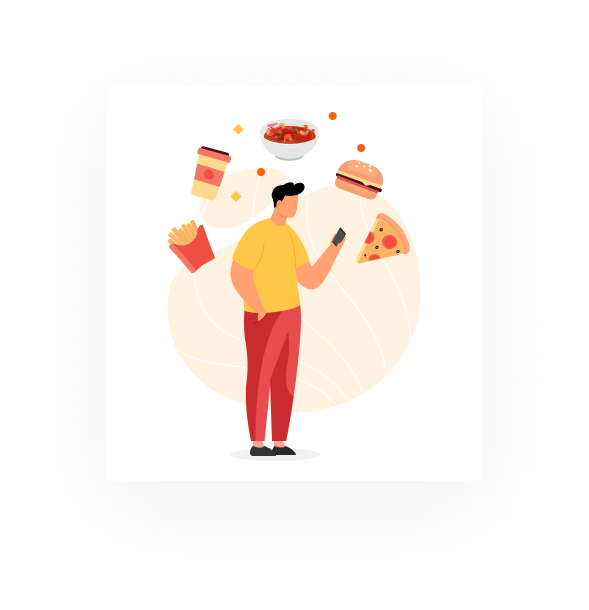
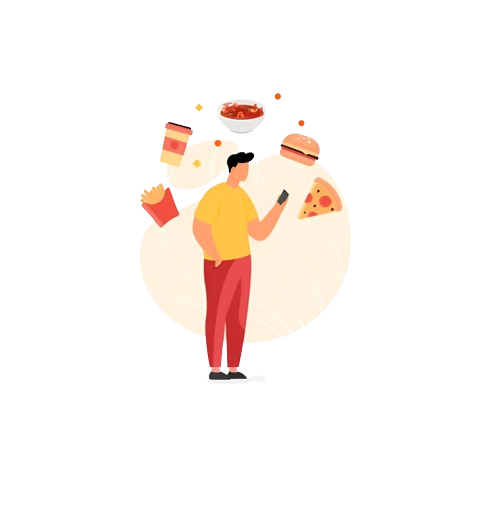
build: onboarding screens UI implementedd

diff --git a/app/onboarding/index.tsx b/app/onboarding/index.tsx
@@ -1,14 +1,25 @@
-import { StyleSheet, Text, View } from 'react-native'
+import { Text, View, SafeAreaView, Image, Pressable, Button, TouchableOpacity } from 'react-native'
 import React from 'react'
+import ButtonFill from '../components/common/button-fill'
+import OnboardingLayout from './onboarding-layout'
 
-const Onboarding = () => {
+const Onboarding = ({navigation}: any) => {
   return (
-    <View>
-      <Text>Onboarding</Text>
-    </View>
+    <OnboardingLayout>
+      <SafeAreaView className='flex flex-col items-center justify-between h-full'>
+        <Image source={require('../../assets/images/one.png')} className='h-[303px]' />
+        <View className='w-full flex flex-col items-center justify-center gap-7'>
+          <Text className='text-[1.5rem] text-dark-text font-extrabold'>All your favourites</Text>
+          <Text className='text-gray-text text-[1.125rem] text-center w-full leading-[25px]'>Get all your loved foods in one place,
+            you just place the order we do the rest</Text>
+            <ButtonFill text='next' onPress={() => navigation.navigate('SecondOnboarding')} />
+          <TouchableOpacity>
+            <Text className='text-gray-text capitalize w-full text-center'>skip</Text>
+          </TouchableOpacity>
+        </View>
+      </SafeAreaView>
+    </OnboardingLayout>
   )
 }
 
 export default Onboarding
-
-const styles = StyleSheet.create({})

diff --git a/app/onboarding/second-onboarding.tsx b/app/onboarding/second-onboarding.tsx
@@ -1,0 +1,25 @@
+import { Text, View, SafeAreaView, Image, Pressable, Button, TouchableOpacity } from 'react-native'
+import React from 'react'
+import ButtonFill from '../components/common/button-fill'
+import OnboardingLayout from './onboarding-layout'
+
+
+const SecondOnboarding = ({navigation}: any) => {
+  return (
+    <OnboardingLayout>
+    <SafeAreaView className='flex flex-col items-center justify-between h-full'>
+      <Image source={require('../../assets/images/two.png')} />
+      <View className='w-full flex flex-col items-center justify-center gap-7'>
+        <Text className='text-[1.5rem] text-dark-text font-extrabold'>Order from chosen chef</Text>
+        <Text className='text-gray-text text-[1.125rem] text-center w-full leading-[25px]'>Enjoy delicious meals from your favorite chef's fresh, fast, and just the way you like it.</Text>
+        <ButtonFill text='next'  onPress={() => navigation.navigate('ThirdOnboarding')} />
+        <TouchableOpacity>
+          <Text className='text-gray-text capitalize w-full text-center'>skip</Text>
+        </TouchableOpacity>
+      </View>
+    </SafeAreaView>
+  </OnboardingLayout>
+  )
+}
+
+export default SecondOnboarding

diff --git a/app/onboarding/onboarding-three.tsx b/app/onboarding/onboarding-three.tsx
@@ -1,0 +1,25 @@
+import { Text, View, SafeAreaView, Image, Pressable, Button, TouchableOpacity } from 'react-native'
+import React from 'react'
+import ButtonFill from '../components/common/button-fill'
+import OnboardingLayout from './onboarding-layout'
+
+
+const ThirdOnboarding = () => {
+  return (
+    <OnboardingLayout>
+    <SafeAreaView className='flex flex-col items-center justify-between h-full'>
+      <Image source={require('../../assets/images/three.png')} />
+      <View className='w-full flex flex-col items-center justify-center gap-7'>
+        <Text className='text-[1.5rem] text-dark-text font-extrabold'>Free delivery offers</Text>
+        <Text className='text-gray-text text-[1.125rem] text-center w-full leading-[25px]'>Enjoy your favorite meals delivered to your doorstep at no extra cost. Limited time only!</Text>
+        <ButtonFill text='next' />
+        <TouchableOpacity>
+          <Text className='text-gray-text capitalize w-full text-center'>skip</Text>
+        </TouchableOpacity>
+      </View>
+    </SafeAreaView>
+  </OnboardingLayout>
+  )
+}
+
+export default ThirdOnboarding

diff --git a/app/index.tsx b/app/index.tsx
@@ -6,6 +6,8 @@ import RootLayout from "./_layout";
 import { createNativeStackNavigator } from "@react-navigation/native-stack";
 import SplashScreen from "./splash-screen";
 import Onboarding from "./onboarding";
+import SecondOnboarding from "./onboarding/second-onboarding";
+import ThirdOnboarding from "./onboarding/onboarding-three";
 const Stack = createNativeStackNavigator()
 
 export default function Index() {
@@ -13,6 +15,9 @@ export default function Index() {
     <Stack.Navigator screenOptions={{ headerShown: false }}>
       <Stack.Screen name="Splash" component={SplashScreen} />
       <Stack.Screen name="Onboarding" component={Onboarding} />
+      <Stack.Screen name="SecondOnboarding" component={SecondOnboarding} />
+      <Stack.Screen name="ThirdOnboarding" component={ThirdOnboarding} />
+
     </Stack.Navigator>
   );
 }

diff --git a/app/components/common/button-fill.tsx b/app/components/common/button-fill.tsx
@@ -3,10 +3,11 @@ import React from 'react'
 
 interface ButtonFillProps {
     text: string;
+    onPress?: () => void;
 }
-const ButtonFill: React.FC<ButtonFillProps> = ({text}) => {
+const ButtonFill: React.FC<ButtonFillProps> = ({text, onPress}) => {
   return (
-    <TouchableOpacity className='bg-primary-orange rounded-[.75rem] flex px-[6.687rem] py-[1.313rem] w-[100%]'>
+    <TouchableOpacity className='bg-primary-orange rounded-[.75rem] flex px-[6.687rem] py-[1.313rem] w-[100%]'  onPress={onPress}>
       <Text className='text-white text-[1rem] font-bold capitalize w-full text-center'>{text}</Text>
     </TouchableOpacity>
   )

diff --git a/app/onboarding/onboarding-layout.tsx b/app/onboarding/onboarding-layout.tsx
@@ -1,0 +1,16 @@
+import { View, Text } from 'react-native'
+import React from 'react'
+
+interface OnboardingLayoutProps {
+  children: React.ReactNode;
+}
+
+const OnboardingLayout: React.FC<OnboardingLayoutProps> = ({ children }) => {
+  return (
+    <View className='px-4 bg-white h-screen w-screen pt-56'>
+        {children}
+    </View>
+  )
+}
+
+export default OnboardingLayout

diff --git a/app/splash-screen.tsx b/app/splash-screen.tsx
@@ -6,7 +6,7 @@ const SplashScreen = ({navigation}: any) => {
     useEffect(()=>{
         const timer = setTimeout(()=>{
             navigation.replace('Onboarding')
-        }, 3000)
+        }, 4000)
 
         return () => clearTimeout(timer)
     }, [])

diff --git a/tailwind.config.js b/tailwind.config.js
@@ -13,6 +13,7 @@ module.exports = {
         "secondary-orange": "#F58D1D",
         "primary-red": "#FF3434",
         "dark-text": "#32343E",
+        "gray-text": "#646982"
       }
     },
   },
